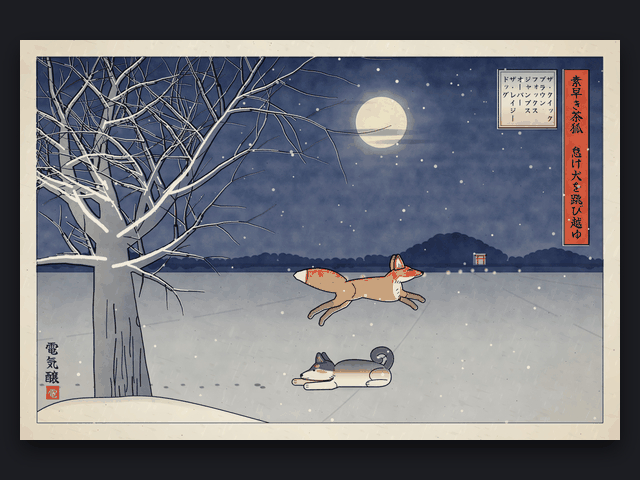
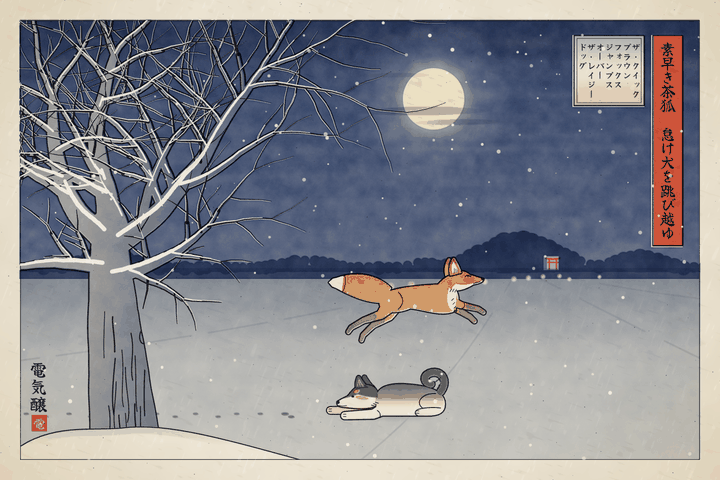
Index: show the ukiyo-e print whole, centred in its card
The thumbnail is now just the print at 3:2, fitted inside the 4:3 slot
instead of being cropped or set on a dark backdrop.

Claude-Session: https://claude.ai/code/session_01TbJLADuK1rRcatXKhTWETe

diff --git a/public/the-quick-brown-fox-jumps-over-the-lazy-dog.html b/public/the-quick-brown-fox-jumps-over-the-lazy-dog.html
@@ -37,6 +37,9 @@ h1{
   transition:transform .12s,box-shadow .12s;
 }
 .versions img.smooth{image-rendering:auto}
+/* A 3:2 print shown whole, centred in the 4:3 slot. */
+.versions img.print{object-fit:contain;object-position:center;border:0;transition:transform .12s,filter .12s}
+.versions a:hover img.print,.versions a:focus-visible img.print{box-shadow:none;filter:drop-shadow(0 3px 0 var(--hi))}
 .versions span{letter-spacing:.08em}
 .versions a:hover img,.versions a:focus-visible img{transform:translateY(-3px);box-shadow:0 3px 0 var(--hi)}
 .versions a:focus-visible{outline:none}
@@ -75,7 +78,7 @@ footer .source:hover{text-decoration:underline;text-underline-offset:.25em}
       <span>Terminal ASCII</span>
     </a></li>
     <li><a href="/the-quick-brown-fox-jumps-over-the-lazy-dog/ukiyoe">
-      <img class="smooth" src="/the-quick-brown-fox-jumps-over-the-lazy-dog/assets/thumbs/ukiyoe.png" width="640" height="480" alt="A woodblock print of a snowy, moonlit winter night: beside a bare tree, a brown fox leaps over a black-and-tan shiba asleep in the snow, with Japanese title cartouches.">
+      <img class="smooth print" src="/the-quick-brown-fox-jumps-over-the-lazy-dog/assets/thumbs/ukiyoe.png" width="720" height="480" alt="A woodblock print of a snowy, moonlit winter night: beside a bare tree, a brown fox leaps over a black-and-tan shiba asleep in the snow, with Japanese title cartouches.">
       <span>Ukiyo-e Woodblock</span>
     </a></li>
     <li class="soon" aria-label="More styles still brewing">
